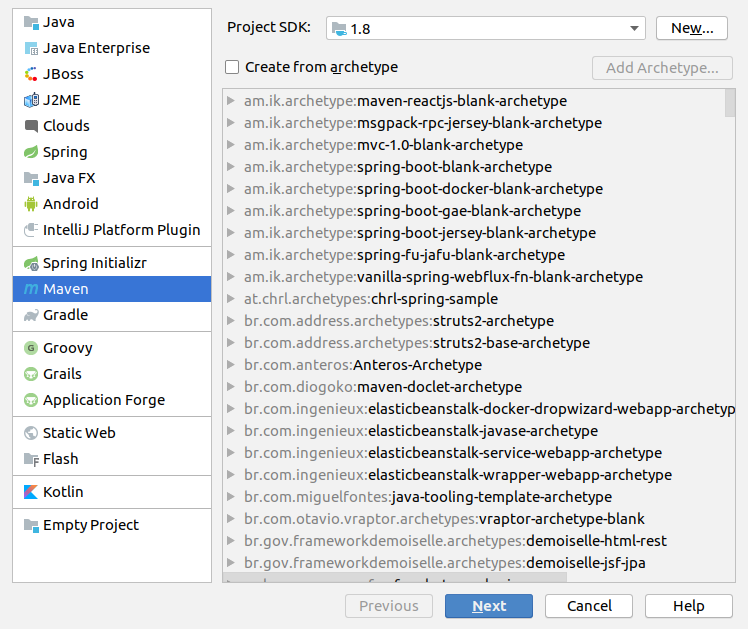
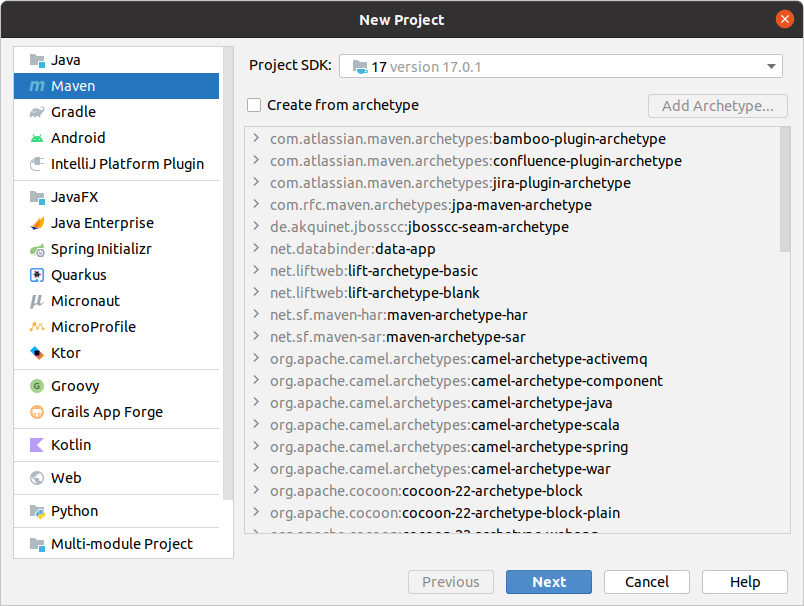
java 17

diff --git a/README.md b/README.md
@@ -99,7 +99,7 @@ libre à vous d'adapter ce tutoriel pour un autre IDE que vous préférez.
 
    ![](ressources/CreationAvecMaven1.png)
 
-   Choisissez le modèle _Maven_ et vérifiez que la SDK correspond à une version supérieure à _Java 1.8_ &rightarrow; _Next_
+   Choisissez le modèle _Maven_ et vérifiez que la SDK correspond à une version supérieure à _Java 17_ &rightarrow; _Next_
 
 3. Dans la fenêtre ci-dessous vous devez indiquer les informations permettant d'identifier votre projet parmi la liste
    des projets que vous avez déjà créés :
@@ -209,7 +209,7 @@ comme d'habitude.
 ### Exercice 2
 Comme pour les TPs précédents, pour cet exercice, vous marquerez vos réponses aux questions posées dans un fichier (**reponses.md** par exemple), que vous pouvez déposer à la racine du projet.
 
-Vous avez sans doute remarqué que la résolution des différentes configurations du Taquin (et même Hanoi) est assez lente. Le but de cet exercice est d'améliorer les temps d'exécution de vos algorithmes en choisissant mieux les structures de données, appelées **collections** en _Java_. Pour ce faire, il faut absolument étudier le [cours sur les collections Java](https://www.lirmm.fr/~pvalicov/Cours/dev-objets/Genericite_Structures_de_Donnees_x4.pdf) et lire la documentation dans la littérature ou sur le site d'Oracle. Voici une liste non-exhaustive des différentes classes et interfaces que vous devriez connaître après avoir travaillé sur le cours :
+Vous avez sans doute remarqué que la résolution des différentes configurations du Taquin (et même Hanoi) est assez lente. Le but de cet exercice est d'améliorer les temps d'exécution de vos algorithmes en choisissant mieux les structures de données, appelées **collections** en _Java_. Pour ce faire, il faut absolument étudier le [cours sur les collections Java](https://www.lirmm.fr/~pvalicov/Cours/dev-objets/Genericite_Structures_de_Donnees_x4.pdf) et lire la documentation dans la littérature ou sur le site d'Oracle. Voici une liste non exhaustive des différentes classes et interfaces que vous devriez connaître après avoir travaillé sur le cours :
 [Collection](https://docs.oracle.com/javase/8/docs/api/java/util/Collection.html),
 [Collections](https://docs.oracle.com/javase/8/docs/api/java/util/Collections.html),
 [List](https://docs.oracle.com/javase/8/docs/api/java/util/List.html),
